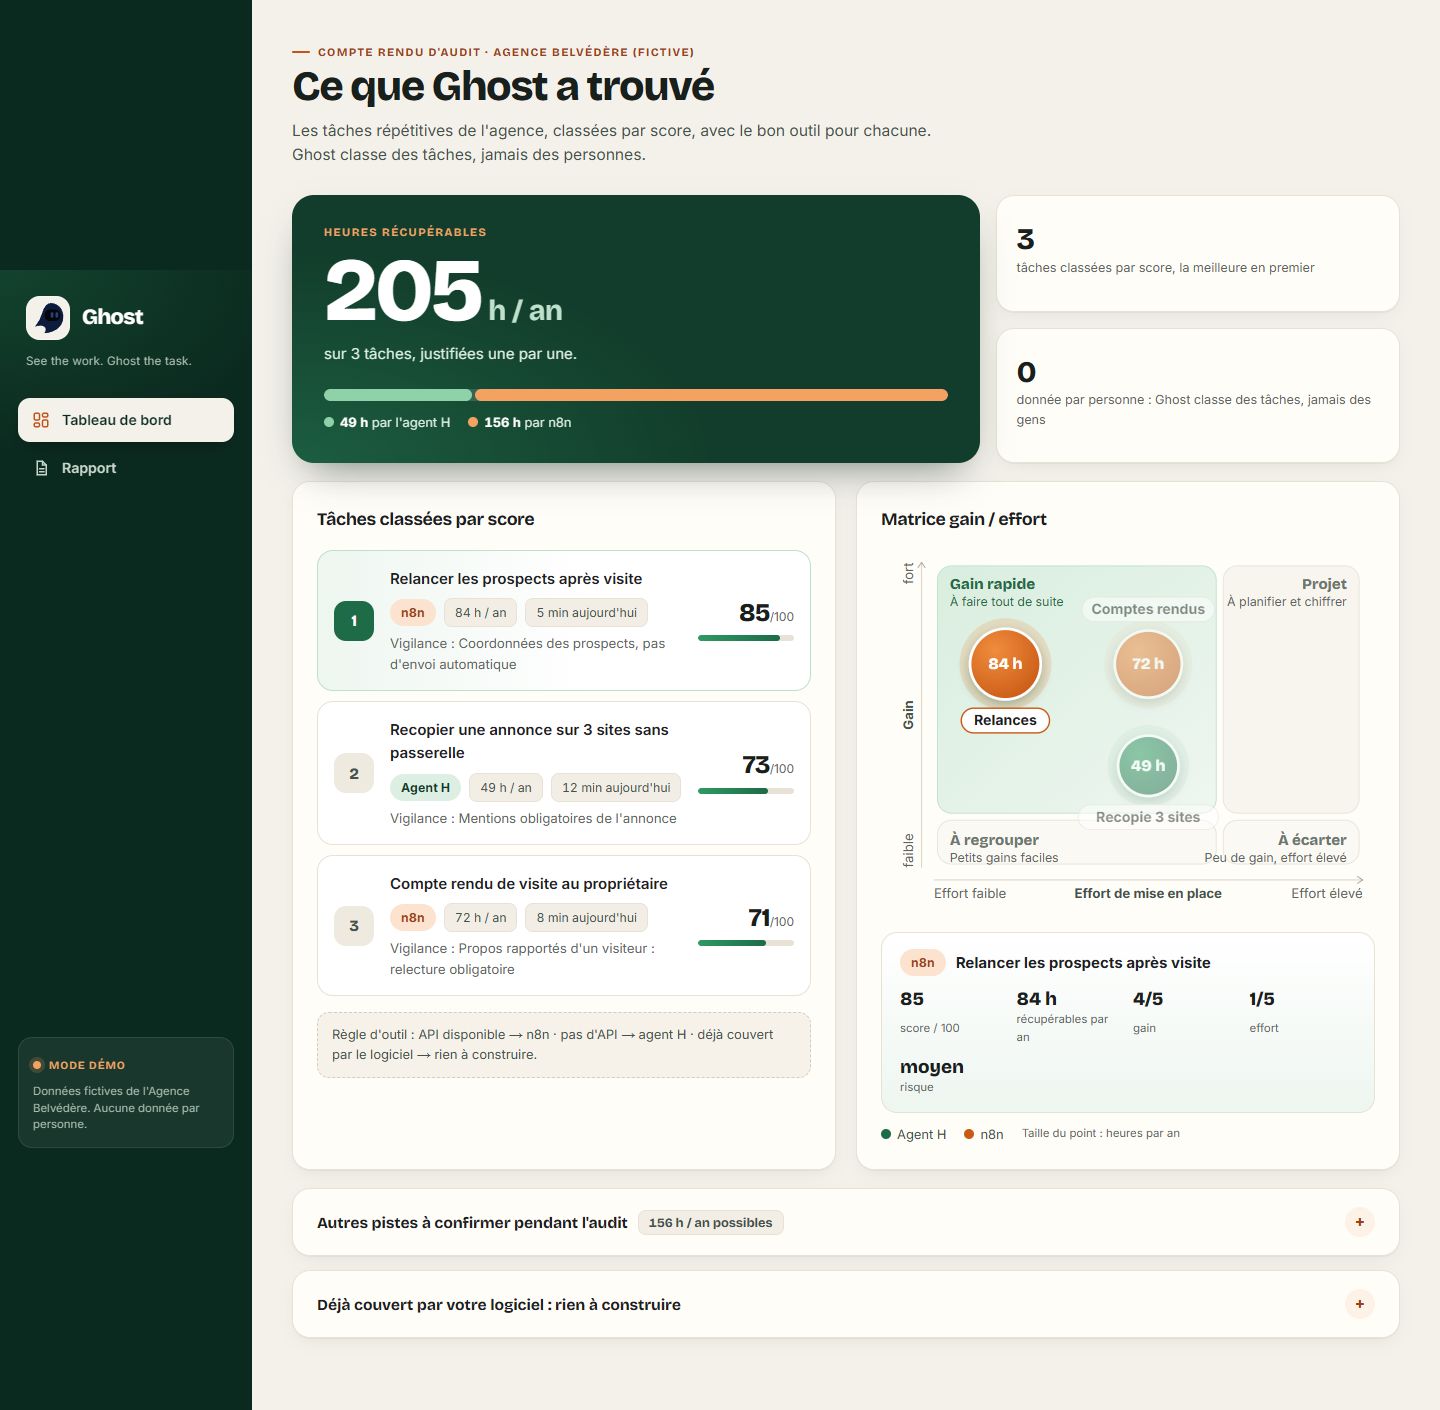
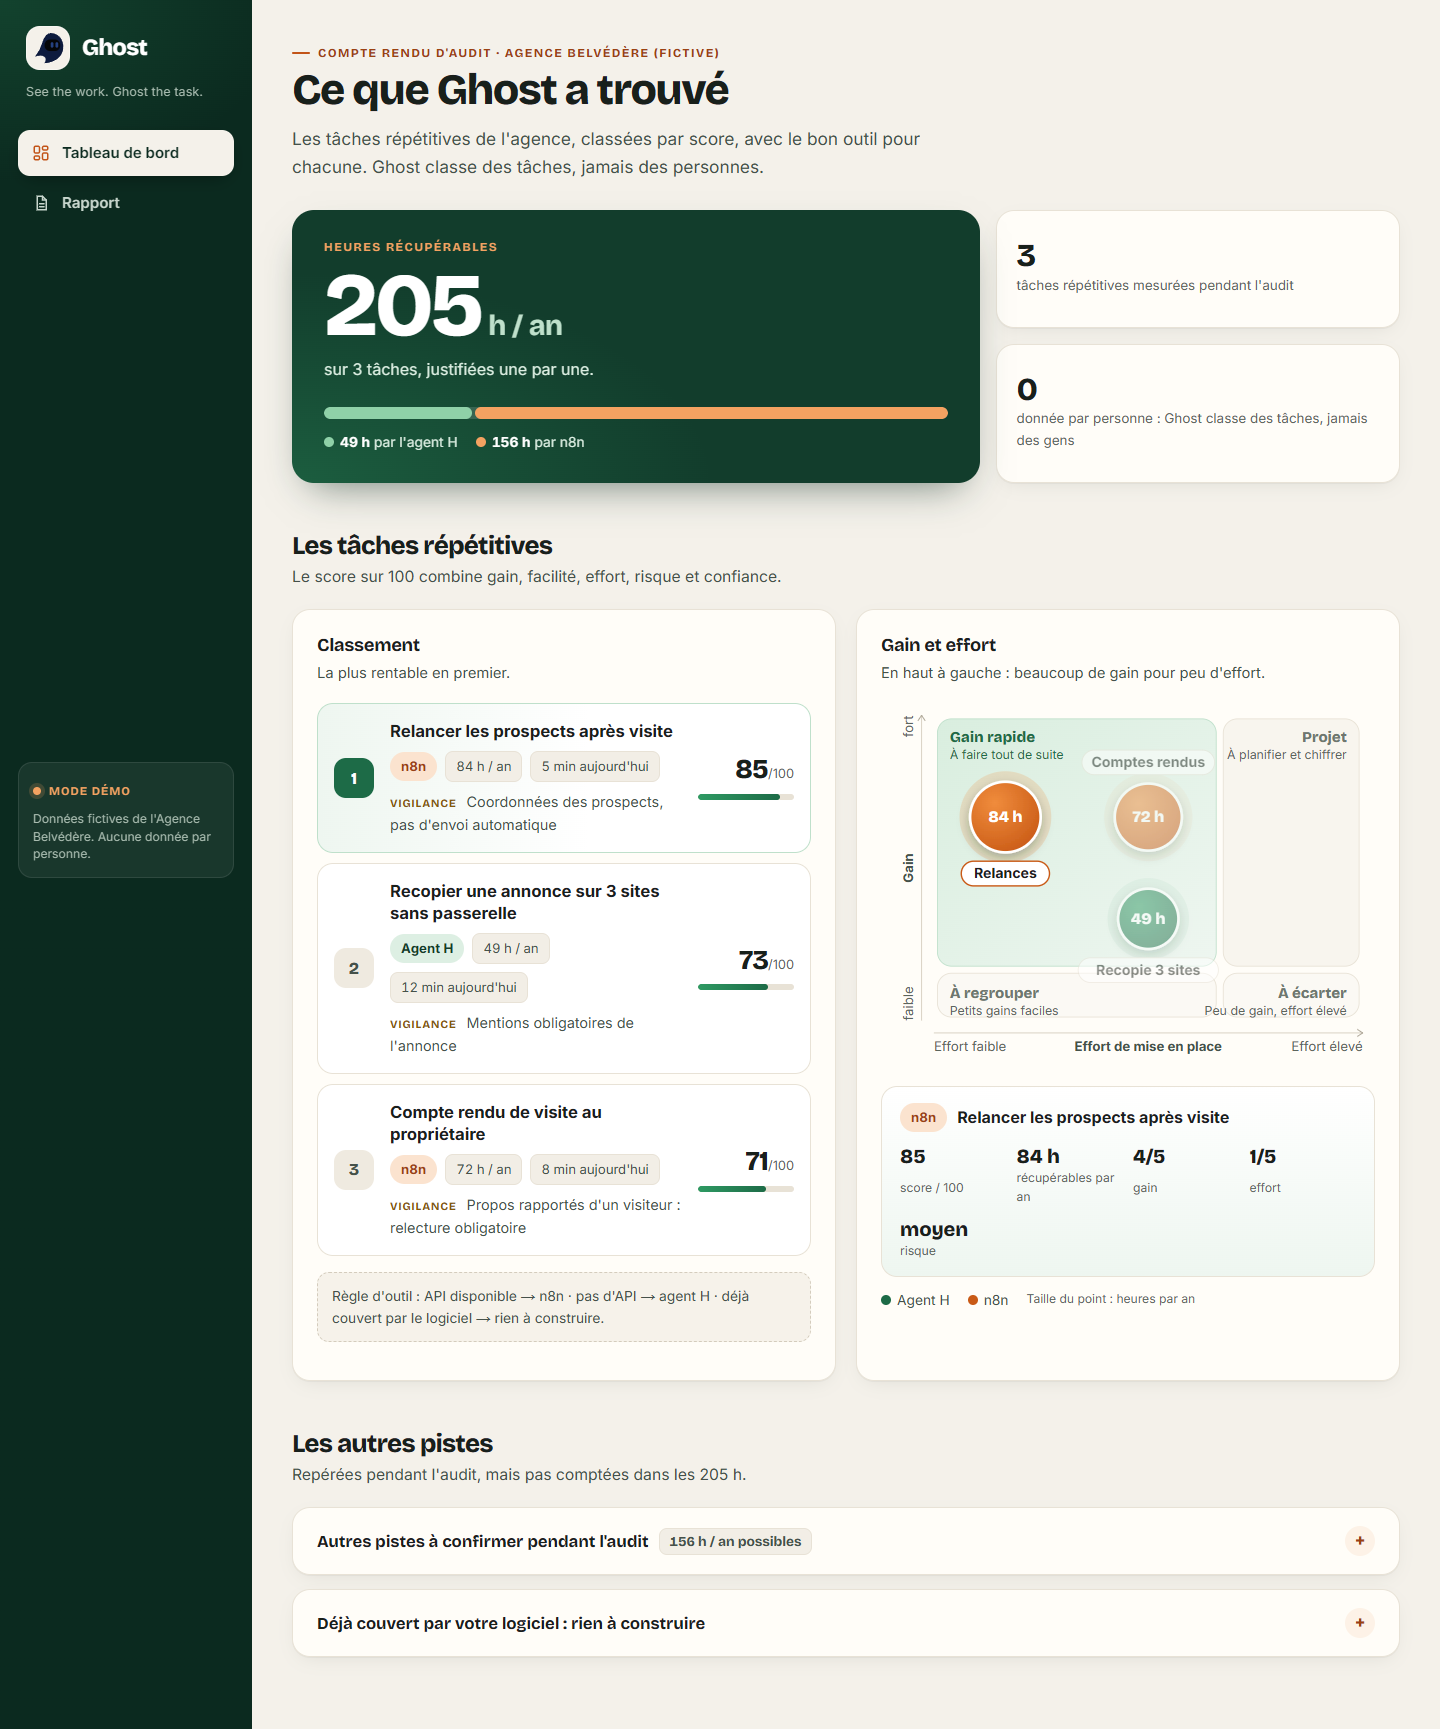
CPO : hiérarchie du texte à 4 niveaux (page, section, carte, étiquette), titres de section sur le tableau de bord, charte mise à jour

diff --git a/binta-cpo/app/ghost-ui/app/globals.css b/binta-cpo/app/ghost-ui/app/globals.css
@@ -52,7 +52,7 @@
 html, body { margin: 0; }
 body {
   background: var(--bg); color: var(--ink);
-  font: 400 clamp(15px, 1vw, 19px)/1.55 var(--font-body);
+  font: 400 clamp(16px, 1.1vw, 19px)/1.6 var(--font-body);
   -webkit-font-smoothing: antialiased;
 }
 a { color: var(--g-700); text-decoration: none; }
@@ -88,12 +88,20 @@ main { width: 100%; max-width: 1480px; margin: 0 auto; padding: 36px 40px 72px; 
 
 /* ---- Typographie ---- */
 h1, h2, h3, .display { font-family: var(--font-display); letter-spacing: -.02em; }
-h1 { font-size: clamp(2em, 2.9vw, 3.1em); line-height: 1.05; font-weight: 800; margin: 6px 0 10px; letter-spacing: -.035em; }
-h2 { font-size: 1.18em; font-weight: 700; margin: 0 0 16px; }
-h3 { font-size: .76em; font-weight: 700; text-transform: uppercase; letter-spacing: .08em; color: var(--mute); margin: 22px 0 10px; font-family: var(--font-display); }
+/* Échelle à 4 niveaux : page (h1) > section (h2) > carte (h3) > étiquette (h4, eyebrow) */
+h1 { font-size: clamp(2.1em, 3vw, 3.2em); line-height: 1.05; font-weight: 800; margin: 6px 0 12px; letter-spacing: -.035em; }
+h2 { font-size: 1.6em; line-height: 1.15; font-weight: 800; margin: 0; letter-spacing: -.03em; }
+h3 { font-size: 1.14em; line-height: 1.3; font-weight: 700; color: var(--ink); margin: 0 0 12px; letter-spacing: -.015em; }
+h4 { font: 700 .8em var(--font-display); text-transform: uppercase; letter-spacing: .09em; color: var(--mute); margin: 22px 0 10px; }
+.card-head { margin-bottom: 18px; }
+.card-head h3 { margin: 0; }
+.card-sub { margin: 4px 0 0; color: var(--ink-2); font-size: .92em; }
+.sec-sub { margin: 4px 0 0; color: var(--ink-2); font-size: .98em; }
+.vig-line { margin-top: 8px; font-size: .9em; color: var(--ink-2); }
+.vig-line b { font: 700 .78em var(--font-display); text-transform: uppercase; letter-spacing: .07em; color: var(--ochre-700); margin-right: 6px; }
 .eyebrow { display: inline-flex; align-items: center; gap: 8px; font: 700 .76em var(--font-display); text-transform: uppercase; letter-spacing: .12em; color: var(--o-700); margin: 0; }
 .eyebrow::before { content: ""; width: 18px; height: 2px; background: var(--o-600); border-radius: 2px; }
-.sub { color: var(--ink-2); margin: 0 0 28px; max-width: 68ch; font-size: 1.04em; }
+.sub { color: var(--ink-2); margin: 0 0 30px; max-width: 64ch; font-size: 1.08em; }
 .muted { color: var(--mute); font-size: .88em; }
 .num { font-variant-numeric: tabular-nums; }
 
@@ -155,7 +163,7 @@ h3 { font-size: .76em; font-weight: 700; text-transform: uppercase; letter-spaci
 .rank li:first-child { border-color: var(--g-200); background: linear-gradient(90deg, var(--g-50), #fff 55%); }
 .rank .n { width: 40px; height: 40px; border-radius: 12px; background: #efeae0; color: var(--ink-2); display: grid; place-items: center; font: 800 1.05em var(--font-display); }
 .rank li:first-child .n { background: var(--g-700); color: #fff; }
-.rank .t { font-weight: 600; }
+.rank .t { font-weight: 700; font-size: 1.04em; line-height: 1.35; }
 .rank .t a { color: var(--ink); background: linear-gradient(var(--o-600), var(--o-600)) 0 100% / 0 2px no-repeat; transition: background-size .25s var(--ease); }
 .rank .t a:hover { color: var(--g-900); text-decoration: none; background-size: 100% 2px; }
 .rank .meta { display: flex; gap: 8px; align-items: center; flex-wrap: wrap; margin-top: 8px; }
@@ -264,9 +272,7 @@ strong { font-weight: 700; }
 .anchors { position: sticky; top: 16px; z-index: 5; display: flex; gap: 4px; margin: 22px 0 4px; padding: 5px; width: fit-content; max-width: 100%; overflow-x: auto; background: rgba(255, 253, 248, .92); backdrop-filter: blur(10px); border: 1px solid var(--line); border-radius: 999px; box-shadow: var(--shadow); }
 .anchors a { padding: 8px 18px; border-radius: 999px; font-weight: 600; font-size: .9em; color: var(--ink-2); white-space: nowrap; transition: background .15s var(--ease), color .15s var(--ease); }
 .anchors a:hover { background: var(--g-950); color: #fff; text-decoration: none; }
-.sec-title { display: flex; gap: 16px; align-items: center; margin: 44px 0 18px; scroll-margin-top: 90px; }
-.sec-title h2 { font-size: 1.7em; margin: 0; letter-spacing: -.03em; }
-.sec-title p { margin: 2px 0 0; }
+.sec-title { display: flex; gap: 16px; align-items: center; margin: 48px 0 20px; scroll-margin-top: 90px; }
 .sec-n { width: 44px; height: 44px; border-radius: 14px; background: var(--o-600); color: #fff; display: grid; place-items: center; font: 800 1.15em var(--font-display); flex: none; box-shadow: 0 8px 18px -8px rgba(217, 102, 31, .8); }
 .facts-row { display: grid; grid-template-columns: repeat(auto-fit, minmax(200px, 1fr)); gap: 12px; margin-top: 22px; }
 .fr { border: 1px solid var(--line); border-radius: 14px; padding: 14px 16px; background: #fbf9f4; display: grid; gap: 2px; align-content: start; }
@@ -275,6 +281,7 @@ strong { font-weight: 700; }
 .fr em { font-style: normal; font-size: .82em; color: var(--mute); }
 .callout { border-radius: var(--radius); padding: 22px 24px; border: 1px solid; }
 .callout h3 { margin-top: 0; }
+.card > h3:first-child, .card > div > h3:first-child { margin-top: 0; }
 .callout.good { background: var(--g-50); border-color: var(--g-200); }
 .callout.good h3 { color: var(--g-700); }
 .callout.info { background: var(--o-50); border-color: var(--o-100); }

diff --git a/binta-cpo/app/ghost-ui/app/page.tsx b/binta-cpo/app/ghost-ui/app/page.tsx
@@ -34,7 +34,7 @@ export default function Dashboard() {
         </div>
         <div className="kpi">
           <b className="num">{taches.length}</b>
-          <span>tâches classées par score, la meilleure en premier</span>
+          <span>tâches répétitives mesurées pendant l'audit</span>
         </div>
         <div className="kpi">
           <b>0</b>
@@ -42,9 +42,13 @@ export default function Dashboard() {
         </div>
       </section>
 
-      <div className="grid split" style={{ marginTop: 18 }}>
+      <div className="sec-title">
+        <div><h2>Les tâches répétitives</h2><p className="sec-sub">Le score sur 100 combine gain, facilité, effort, risque et confiance.</p></div>
+      </div>
+
+      <div className="grid split">
         <section className="card">
-          <h2>Tâches classées par score</h2>
+          <div className="card-head"><h3>Classement</h3><p className="card-sub">La plus rentable en premier.</p></div>
           <ol className="rank">
             {taches.map((t, i) => (
               <li key={t.id}>
@@ -56,7 +60,7 @@ export default function Dashboard() {
                     <span className="chip num">{t.heures_an} h / an</span>
                     <span className="chip num">{formatDuree(t.duree_humaine_s)} aujourd'hui</span>
                   </div>
-                  <div className="muted" style={{ marginTop: 6 }}>Vigilance : {t.vigilance}</div>
+                  <div className="vig-line"><b>Vigilance</b> {t.vigilance}</div>
                 </div>
                 <div className="score">
                   <b className="num">{t.score.total}</b><span>/100</span>
@@ -69,12 +73,16 @@ export default function Dashboard() {
         </section>
 
         <section className="card">
-          <h2>Matrice gain / effort</h2>
+          <div className="card-head"><h3>Gain et effort</h3><p className="card-sub">En haut à gauche : beaucoup de gain pour peu d'effort.</p></div>
           <Matrice taches={taches} />
         </section>
       </div>
 
-      <div className="stack" style={{ marginTop: 18 }}>
+      <div className="sec-title">
+        <div><h2>Les autres pistes</h2><p className="sec-sub">Repérées pendant l'audit, mais pas comptées dans les {total} h.</p></div>
+      </div>
+
+      <div className="stack">
         <details className="fold">
           <summary><span>Autres pistes à confirmer pendant l'audit <span className="chip num">{pistes.totalAConfirmer} h / an possibles</span></span></summary>
           <div className="body">

diff --git a/binta-cpo/app/ghost-ui/app/rapport/page.tsx b/binta-cpo/app/ghost-ui/app/rapport/page.tsx
@@ -20,7 +20,7 @@ function Titre({ id, n, children, sub }: { id: string; n: string; children: Reac
   return (
     <div className="sec-title" id={id}>
       <span className="sec-n">{n}</span>
-      <div><h2>{children}</h2><p className="muted">{sub}</p></div>
+      <div><h2>{children}</h2><p className="sec-sub">{sub}</p></div>
     </div>
   );
 }
@@ -94,7 +94,7 @@ export default function Rapport() {
         <section className="card">
           <h3 style={{ marginTop: 0 }}>Pour l'équipe</h3>
           <ul className="bullets">{phrases(m.impact_equipe).map((p) => <li key={p}><Rich>{p}</Rich></li>)}</ul>
-          <h3>Le temps libéré sert à</h3>
+          <h4>Le temps libéré sert à</h4>
           <p style={{ margin: 0 }}><Rich>{m.temps_libere}</Rich></p>
         </section>
       </div>
@@ -112,7 +112,7 @@ export default function Rapport() {
           <h3 style={{ marginTop: 0 }}>Outil recommandé</h3>
           <div className="row"><span className="pill agent_h big">Agent H</span></div>
           <p className="lead-text" style={{ marginTop: 10 }}>{t.raison}</p>
-          <h3>Options écartées</h3>
+          <h4>Options écartées</h4>
           <div className="rejects">
             {t.options_ecartees.map((o: string) => {
               const [titre, corps] = splitTitre(o);

diff --git a/binta-cpo/app/ghost-ui/app/prouver.tsx b/binta-cpo/app/ghost-ui/app/prouver.tsx
@@ -33,8 +33,7 @@ export default function Prouver({ exemple }: { exemple: Execution }) {
     <section className="card proof">
       <div className="row" style={{ justifyContent: "space-between" }}>
         <div>
-          <p className="eyebrow">Preuve</p>
-          <h2 style={{ margin: 0 }}>L'agent H refait la tâche, chronomètre en main</h2>
+          <h3 style={{ margin: 0 }}>L'agent H refait la tâche, chronomètre en main</h3>
         </div>
         <div className="row">
           <button className="btn" onClick={lancer} disabled={etat === "en_cours"}>

diff --git a/binta-cpo/design/CHARTE-GRAPHIQUE.md b/binta-cpo/design/CHARTE-GRAPHIQUE.md
@@ -76,12 +76,31 @@ Fantôme bleu nuit, visière noire, deux yeux. Fichier vectoriel : [`logo-ghost.
 
 ## 4. Typographie
 
+### Hiérarchie du texte : 4 niveaux, pas plus
+
+Chaque écran se lit de haut en bas, du plus grand au plus petit. Un niveau = une taille = un rôle.
+
+| Niveau | Balise | Rôle | Exemple | Taille à 1 440 px |
+|---|---|---|---|---|
+| 1. Page | `h1` | Ce que montre l'écran | « Ce que Ghost a trouvé » | 43 px, Bricolage 800 |
+| 2. Section | `h2` + phrase `.sec-sub` | Un groupe de cartes, et ce qu'il faut en retenir | « Les tâches répétitives » / « Le score sur 100 combine… » | 26 px, Bricolage 800 |
+| 3. Carte | `h3` + phrase `.card-sub` | Le contenu d'une carte, écrit normalement (pas en capitales) | « Classement » / « La plus rentable en premier. » | 18 px, Bricolage 700 |
+| 4. Étiquette | `h4`, `.eyebrow`, libellés | Une précision dans une carte, en petites capitales | « OPTIONS ÉCARTÉES », « VIGILANCE » | 12 à 13 px, capitales espacées |
+
+Règles :
+- **Chaque section commence par un `h2` et une phrase** qui dit ce qu'il faut comprendre, pas seulement le nom du bloc.
+- **Les titres de carte sont des titres, pas des étiquettes** : écriture normale, couleur encre.
+- **Les petites capitales sont réservées aux étiquettes** (niveau 4) et au sur-titre au-dessus du `h1`.
+- **Un texte ne se répète pas** d'un niveau à l'autre (un titre de section ne redit pas le titre de la carte).
+
+### Polices et tailles
+
 | Usage | Police | Graisse | Taille |
 |---|---|---|---|
-| Titres, chiffres, boutons | **Bricolage Grotesque** | 600 à 800 | H1 2 à 3,1 em · H2 1,18 em · titres de section 1,7 em |
+| Titres, chiffres, boutons | **Bricolage Grotesque** | 600 à 800 | voir les 4 niveaux ci-dessus |
 | Grand chiffre | Bricolage Grotesque | 800 | 3,6 à 6,6 em, interlettrage serré (-0,05 em) |
-| Texte courant | **Inter** | 400 à 600 | 15 à 19 px (grandit avec l'écran) |
-| Sur-titres, libellés | Bricolage Grotesque | 700 | 0,76 em, capitales, espacées, précédées d'un trait orange |
+| Texte courant | **Inter** | 400 à 600 | 16 à 19 px (grandit avec l'écran) |
+| Sur-titres, étiquettes | Bricolage Grotesque | 700 | 0,76 à 0,8 em, capitales, espacées ; le sur-titre est précédé d'un trait orange |
 
 - Deux polices, pas plus.
 - Chiffres alignés (`tabular-nums`) partout où l'on compare des nombres.
